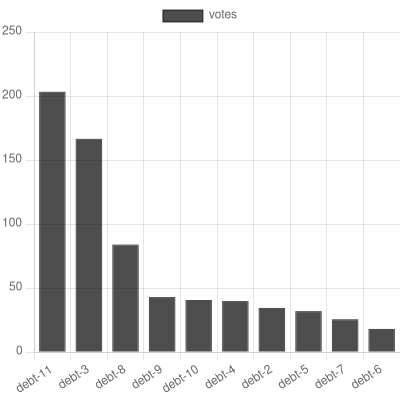
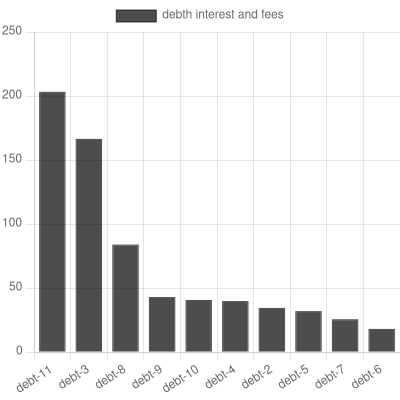
pass label through

Changed region(s): [[0.27, 0.0, 0.72, 0.06]]

diff --git a/chart-gen.js b/chart-gen.js
@@ -14,7 +14,7 @@ const generateBarChart = async (data, label, filename) => {
         data: {
             labels: [...data.map(data => data.name)],
             datasets: [{
-                label: "votes",
+                label,
                 data: [...data.map(data => data.interestFees)],
                 backgroundColor: [...data.map(val => 'rgba(0, 0, 0, 0.7)')],
                 borderColor: [...data.map(val => 'rgba(0, 0, 0, 0.7)')],